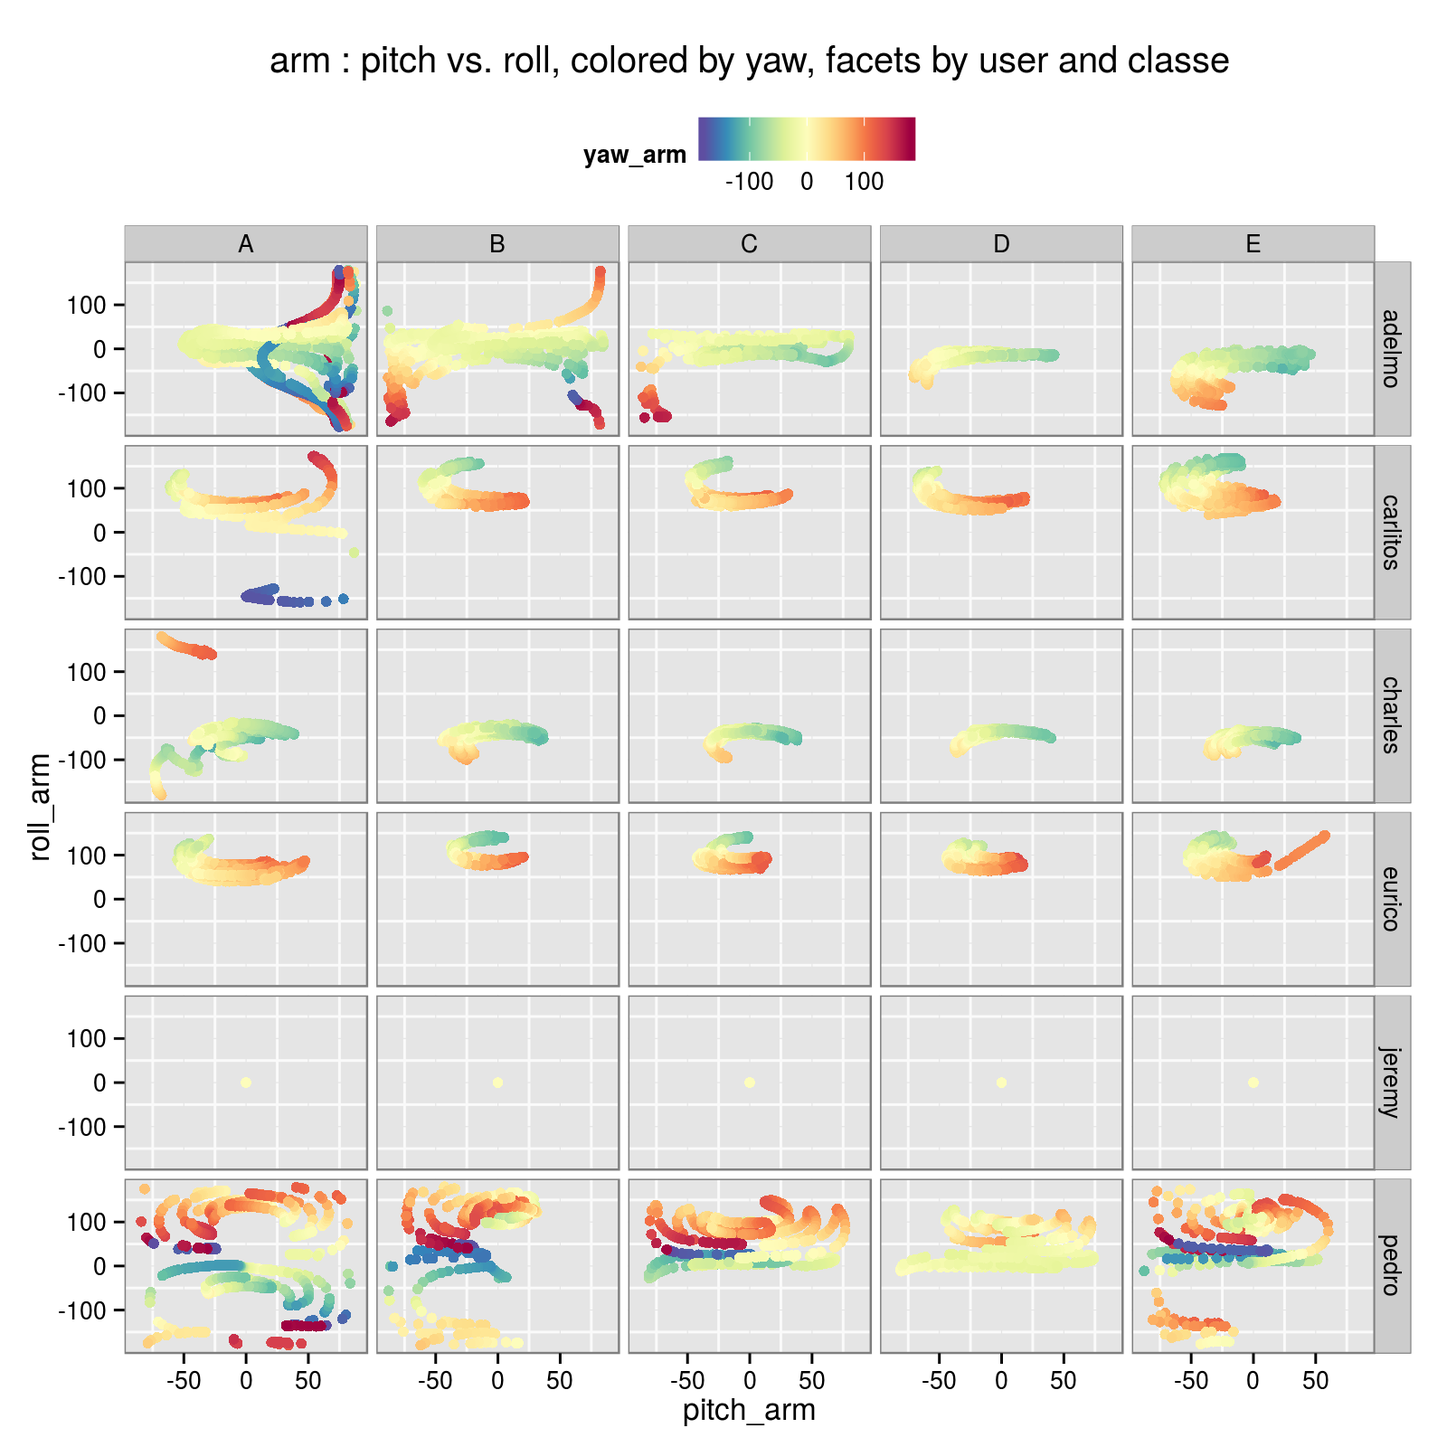
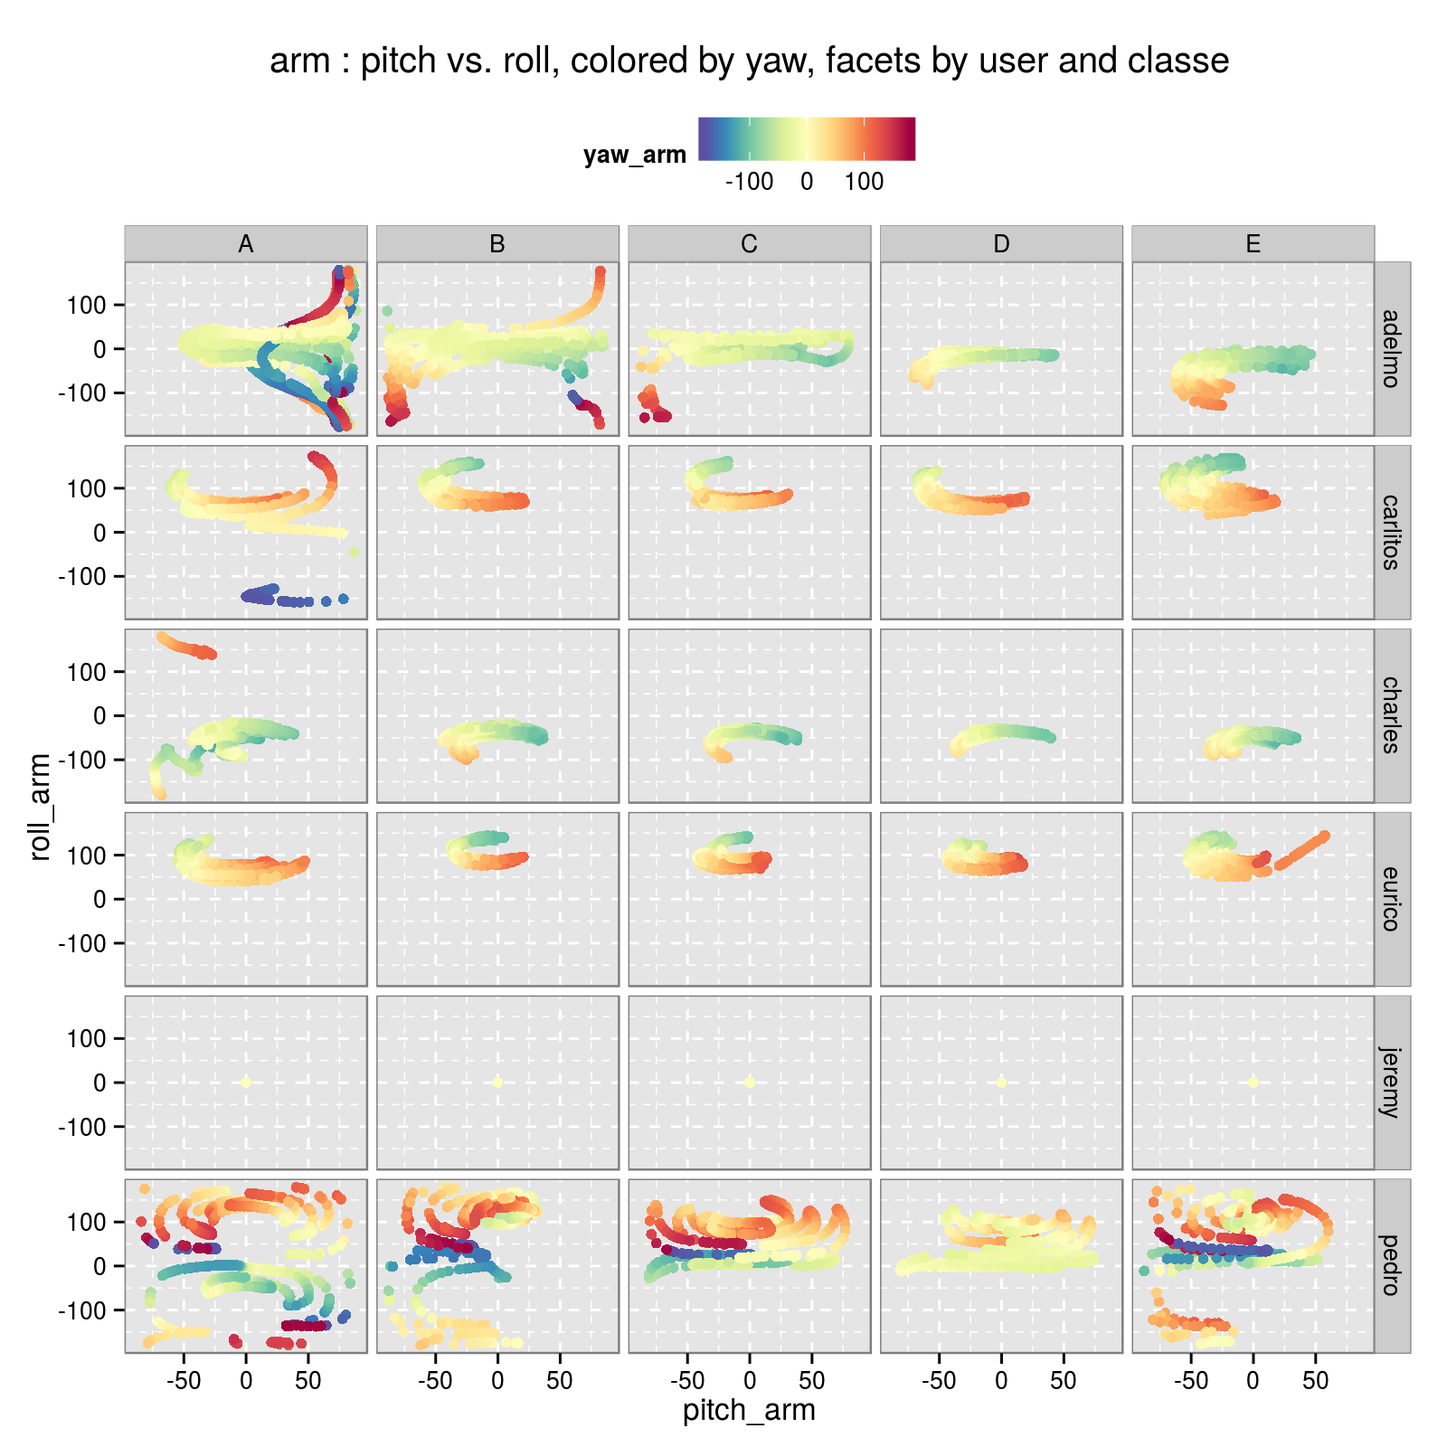
edited down Human_Activity_2

diff --git a/Human_Activity_2/report.html b/Human_Activity_2/report.html
@@ -11,7 +11,7 @@
 <meta name="author" content="Giovanni Fossati" />
 
 
-<title>Assessment of The Quality of Weight-lifting Exercises</title>
+<title>ML-based Assessement of the Quality of Weight-lifting Exercises</title>
 
 <script src="common/libs/jquery-1.11.0/jquery.min.js"></script>
 <meta name="viewport" content="width=device-width, initial-scale=1" />
@@ -76,7 +76,7 @@ img {
 
 
 <div id="header">
-<h1 class="title">Assessment of The Quality of Weight-lifting Exercises</h1>
+<h1 class="title">ML-based Assessement of the Quality of Weight-lifting Exercises</h1>
 <h4 class="author"><em>Giovanni Fossati</em></h4>
 </div>
 
@@ -116,7 +116,7 @@ img {
 <li><em>random forest</em>.</li>
 </ul>
 <p>The first two methods failed to yield high quality results. This may have been caused by less than ideal choice of parameters, although in most cases we run them with the default values from <code>caret</code>, which are expected to be reasonable for decent results.</p>
-<p><strong>Random forest</strong> models produced high quality results, with accuracies exceeding 99%, both in the built-in <em>Out Of the Bag</em> resampling, and on a subset of the data that we set aside as <em>testing</em> dataset.</p>
+<p><strong>Random forest</strong> models produced high quality results, with <strong>out-of-sample accuracies exceeding 99%</strong>, both in the built-in <em>Out Of the Bag</em> resampling, and on a subset of the data that we set aside as <em>testing</em> dataset.</p>
 <p>Beside its clearly better performance, the choice of a random forest as an ensemble method is supported by its ability to handle multi-class problems.</p>
 <p>We ran <em>random forest</em> models with <strong>three different <em>internal</em> cross-validation</strong> setups (implemented through the <code>trainControl()</code> function of <code>caret</code>):</p>
 <ul>
@@ -262,91 +262,21 @@ alt.TEST.select &lt;-<span class="st"> </span>alt.TEST.good[, alt.tt]</code></pr
 </div>
 <div id="exploratory-analysis" class="section level1">
 <h1>EXPLORATORY ANALYSIS</h1>
-<div id="features-plotted-vs.sequence-index-and-color-coded-by-user_name-and-classe" class="section level3">
-<h3>Features plotted vs. sequence index, and color coded by <code>user_name</code> and <code>classe</code></h3>
-<p>These kind of plots show that some of the features seem to correlated very strongly with the <em>user</em>, even more than with their <code>classe</code>.<br />This suggest that the training to predict the quality parameter of the weight lifting exercise (<code>classe</code>) that we can achieve with this dataset may not be easily generalized.</p>
-<div id="roll_arm-vs.user" class="section level4">
-<h4>roll_arm vs. user</h4>
-<button class="toggle_plot_code">
-show plot code
-</button>
-<pre class="sourceCode r"><code class="sourceCode r">df &lt;-<span class="st"> </span>alt.full
-<span class="co">#   8 = roll_belt</span>
-<span class="co">#   9 = pitch_belt</span>
-<span class="co">#  10 = yaw_belt</span>
-<span class="co">#  46 = roll_arm</span>
-<span class="co"># 122 = roll_forearm</span>
-ii &lt;-<span class="st"> </span><span class="dv">46</span>
-
-title_string &lt;-<span class="st"> </span><span class="kw">paste</span>(<span class="kw">colnames</span>(df)[ii], <span class="st">&quot;by user and classe&quot;</span>, <span class="dt">sep=</span><span class="st">&quot; &quot;</span>)
-tmp.df &lt;-<span class="st"> </span>df[, <span class="kw">c</span>(<span class="st">&quot;user_name&quot;</span>, <span class="st">&quot;classe&quot;</span>, <span class="kw">colnames</span>(df)[ii])]
-tmp.df$index &lt;-<span class="st"> </span><span class="dv">1</span>:<span class="kw">nrow</span>(tmp.df)
-
-p.base &lt;-<span class="st"> </span><span class="kw">ggplot</span>(tmp.df, <span class="kw">aes</span>(<span class="dt">x =</span> index, <span class="dt">y =</span> roll_arm)) +<span class="st"> </span><span class="kw">theme_bw</span>() +<span class="st"> </span>
-<span class="st">            </span><span class="kw">theme</span>(<span class="dt">legend.position =</span> <span class="st">&quot;top&quot;</span>, 
-                   <span class="dt">panel.background =</span> <span class="kw">element_rect</span>(<span class="dt">fill =</span> <span class="st">&quot;grey90&quot;</span>),
-                   <span class="dt">panel.grid.major =</span> <span class="kw">element_line</span>(<span class="dt">size =</span> <span class="fl">0.50</span>, <span class="dt">linetype =</span> <span class="st">&#39;dashed&#39;</span>, <span class="dt">colour =</span> <span class="st">&quot;white&quot;</span>), 
-                   <span class="dt">panel.grid.minor =</span> <span class="kw">element_line</span>(<span class="dt">size =</span> <span class="fl">0.25</span>, <span class="dt">linetype =</span> <span class="st">&#39;dashed&#39;</span>, <span class="dt">colour =</span> <span class="st">&quot;white&quot;</span>)) +<span class="st"> </span>
-<span class="st">            </span><span class="kw">ylab</span>(<span class="kw">colnames</span>(df)[ii]) 
-
-p<span class="fl">.1</span> &lt;-<span class="st"> </span>p.base +<span class="st"> </span>
-<span class="st">            </span><span class="kw">ggtitle</span>(title_string) +
-<span class="st">            </span><span class="kw">scale_color_brewer</span>(<span class="dt">palette =</span> <span class="st">&quot;Set3&quot;</span>, <span class="dt">name =</span> <span class="st">&quot;User&quot;</span>) +
-<span class="st">            </span><span class="kw">geom_point</span>(<span class="kw">aes</span>(<span class="dt">col =</span> user_name)) 
-
-p<span class="fl">.2</span> &lt;-<span class="st"> </span>p.base +
-<span class="st">            </span><span class="kw">scale_color_brewer</span>(<span class="dt">palette =</span> <span class="st">&quot;Set1&quot;</span>, <span class="dt">name =</span> <span class="st">&quot;Classe&quot;</span>) +
-<span class="st">            </span><span class="kw">geom_point</span>(<span class="kw">aes</span>(<span class="dt">col =</span> classe)) 
-
-<span class="kw">grid.arrange</span>(p<span class="fl">.1</span>, p<span class="fl">.2</span>, <span class="dt">nrow=</span><span class="dv">2</span>)</code></pre>
-<p><img src="figures/plots-examine2b-1.png" title="" alt="" width="800" style="display: block; margin: auto;" /></p>
-<button class="toggle_plot_code">
-show plot code
-</button>
-<pre class="sourceCode r"><code class="sourceCode r">df &lt;-<span class="st"> </span>alt.full
-<span class="co">#   8 = roll_belt</span>
-<span class="co">#   9 = pitch_belt</span>
-<span class="co">#  10 = yaw_belt</span>
-<span class="co">#  46 = roll_arm</span>
-<span class="co"># 122 = roll_forearm</span>
-ii &lt;-<span class="st"> </span><span class="dv">9</span>
-
-title_string &lt;-<span class="st"> </span><span class="kw">paste</span>(<span class="kw">colnames</span>(df)[ii], <span class="st">&quot;by user and classe&quot;</span>, <span class="dt">sep=</span><span class="st">&quot; &quot;</span>)
-tmp.df &lt;-<span class="st"> </span>df[, <span class="kw">c</span>(<span class="st">&quot;user_name&quot;</span>, <span class="st">&quot;classe&quot;</span>, <span class="kw">colnames</span>(df)[ii])]
-tmp.df$index &lt;-<span class="st"> </span><span class="dv">1</span>:<span class="kw">nrow</span>(tmp.df)
-
-p.base &lt;-<span class="st"> </span><span class="kw">ggplot</span>(tmp.df, <span class="kw">aes</span>(<span class="dt">x =</span> index, <span class="dt">y =</span> pitch_belt)) +<span class="st"> </span><span class="kw">theme_bw</span>() +<span class="st"> </span>
-<span class="st">            </span><span class="kw">theme</span>(<span class="dt">legend.position =</span> <span class="st">&quot;top&quot;</span>, 
-                   <span class="dt">panel.background =</span> <span class="kw">element_rect</span>(<span class="dt">fill =</span> <span class="st">&quot;grey90&quot;</span>),
-                   <span class="dt">panel.grid.major =</span> <span class="kw">element_line</span>(<span class="dt">size =</span> <span class="fl">0.50</span>, <span class="dt">linetype =</span> <span class="st">&#39;dashed&#39;</span>, <span class="dt">colour =</span> <span class="st">&quot;white&quot;</span>), 
-                   <span class="dt">panel.grid.minor =</span> <span class="kw">element_line</span>(<span class="dt">size =</span> <span class="fl">0.25</span>, <span class="dt">linetype =</span> <span class="st">&#39;dashed&#39;</span>, <span class="dt">colour =</span> <span class="st">&quot;white&quot;</span>)) +<span class="st"> </span>
-<span class="st">            </span><span class="kw">ylab</span>(<span class="kw">colnames</span>(df)[ii]) 
-
-p<span class="fl">.1</span> &lt;-<span class="st"> </span>p.base +<span class="st"> </span>
-<span class="st">            </span><span class="kw">ggtitle</span>(title_string) +
-<span class="st">            </span><span class="kw">scale_color_brewer</span>(<span class="dt">palette =</span> <span class="st">&quot;Set2&quot;</span>, <span class="dt">name =</span> <span class="st">&quot;User&quot;</span>) +
-<span class="st">            </span><span class="kw">geom_point</span>(<span class="kw">aes</span>(<span class="dt">col =</span> user_name)) 
-
-p<span class="fl">.2</span> &lt;-<span class="st"> </span>p.base +
-<span class="st">            </span><span class="kw">scale_color_brewer</span>(<span class="dt">palette =</span> <span class="st">&quot;Set1&quot;</span>, <span class="dt">name =</span> <span class="st">&quot;Classe&quot;</span>) +
-<span class="st">            </span><span class="kw">geom_point</span>(<span class="kw">aes</span>(<span class="dt">col =</span> classe)) 
-
-<span class="kw">grid.arrange</span>(p<span class="fl">.1</span>, p<span class="fl">.2</span>, <span class="dt">nrow=</span><span class="dv">2</span>)</code></pre>
-<p><img src="figures/plots-examine2c-1.png" title="" alt="" width="800" style="display: block; margin: auto;" /></p>
-</div>
-</div>
 <div id="feature-vs.feature-plots-faceted-by-user-and-classe" class="section level3">
 <h3>Feature vs. Feature Plots faceted by <em>user</em> and <em>classe</em></h3>
-<p>This second set of example plots shows that there are indeed some reasonably recognizable patterns allowing to distinguish between different <code>classe</code> categories.<br />However, it is noticeable how the patterns are really different from user to user, which would imply that models might have to be highly personalized.</p>
-<p>The expectation is that the ML algorithm will be able to identify them and build on them a classification scheme.</p>
+<p>These example plots shows that there are indeed some reasonably recognizable patterns allowing to distinguish between different <code>classe</code> categories.<br />The expectation is that the ML algorithm will be able to identify them and build on them a classification scheme.</p>
+<p>However, it is noticeable how the patterns are really different from user to user, which would imply that models might have to be highly personalized, and in turn that the training to predict the quality parameter (<code>classe</code>) that we can achieve with this dataset may not be easily generalized.</p>
 <button class="toggle_plot_code">
 show plot code
 </button>
-<pre class="sourceCode r"><code class="sourceCode r">myPalette &lt;-<span class="st"> </span><span class="kw">colorRampPalette</span>(<span class="kw">rev</span>(<span class="kw">brewer.pal</span>(<span class="dv">11</span>, <span class="st">&quot;Spectral&quot;</span>)))
+<pre class="sourceCode r"><code class="sourceCode r">df &lt;-<span class="st"> </span>alt.full
+myPalette &lt;-<span class="st"> </span><span class="kw">colorRampPalette</span>(<span class="kw">rev</span>(<span class="kw">brewer.pal</span>(<span class="dv">11</span>, <span class="st">&quot;Spectral&quot;</span>)))
 
 p &lt;-<span class="st"> </span><span class="kw">ggplot</span>(df, <span class="kw">aes</span>(pitch_arm, roll_arm)) +<span class="st"> </span><span class="kw">theme_bw</span>() +<span class="st"> </span>
 <span class="st">            </span><span class="kw">theme</span>(<span class="dt">legend.position =</span> <span class="st">&quot;top&quot;</span>, 
-                  <span class="dt">panel.background =</span> <span class="kw">element_rect</span>(<span class="dt">fill =</span> <span class="st">&quot;grey90&quot;</span>)) +
+                  <span class="dt">panel.background =</span> <span class="kw">element_rect</span>(<span class="dt">fill =</span> <span class="st">&quot;grey90&quot;</span>), 
+                  <span class="dt">panel.grid.major =</span> <span class="kw">element_line</span>(<span class="dt">size =</span> <span class="fl">0.50</span>, <span class="dt">linetype =</span> <span class="st">&#39;dashed&#39;</span>, <span class="dt">colour =</span> <span class="st">&quot;white&quot;</span>), 
+                  <span class="dt">panel.grid.minor =</span> <span class="kw">element_line</span>(<span class="dt">size =</span> <span class="fl">0.25</span>, <span class="dt">linetype =</span> <span class="st">&#39;dashed&#39;</span>, <span class="dt">colour =</span> <span class="st">&quot;white&quot;</span>)) +<span class="st"> </span>
 <span class="st">            </span><span class="co"># scale_color_gradient(low = &quot;gold&quot;, high = &quot;blue&quot;) +</span>
 <span class="st">            </span><span class="kw">scale_colour_gradientn</span>(<span class="dt">colours =</span> <span class="kw">myPalette</span>(<span class="dv">100</span>)) +<span class="st"> </span>
 <span class="st">            </span><span class="kw">geom_point</span>(<span class="kw">aes</span>(<span class="dt">col =</span> yaw_arm)) +<span class="st"> </span>
@@ -472,32 +402,7 @@ mod.alt.rf1c &lt;-<span class="st"> </span><span class="kw">train</span>(<span c
 </div>
 <div id="fit-summary" class="section level3">
 <h3>Fit Summary</h3>
-<pre class="sourceCode r"><code class="sourceCode r">mod.alt.rf1c
-<span class="co"># Random Forest </span>
-<span class="co"># </span>
-<span class="co"># 14414 samples</span>
-<span class="co">#    32 predictor</span>
-<span class="co">#     5 classes: &#39;A&#39;, &#39;B&#39;, &#39;C&#39;, &#39;D&#39;, &#39;E&#39; </span>
-<span class="co"># </span>
-<span class="co"># No pre-processing</span>
-<span class="co"># Resampling: Cross-Validated (4 fold) </span>
-<span class="co"># </span>
-<span class="co"># Summary of sample sizes: 10811, 10810, 10811, 10810 </span>
-<span class="co"># </span>
-<span class="co"># Resampling results across tuning parameters:</span>
-<span class="co"># </span>
-<span class="co">#   mtry  Accuracy   Kappa      Accuracy SD  Kappa SD   </span>
-<span class="co">#    2    0.9898018  0.9870959  0.003951942  0.005002063</span>
-<span class="co">#    6    0.9911893  0.9888523  0.002982777  0.003774821</span>
-<span class="co">#   10    0.9901487  0.9875353  0.003060048  0.003872692</span>
-<span class="co">#   18    0.9879979  0.9848141  0.002999668  0.003797201</span>
-<span class="co">#   26    0.9830026  0.9784937  0.003199211  0.004049294</span>
-<span class="co">#   34    0.9777993  0.9719118  0.003413927  0.004319903</span>
-<span class="co"># </span>
-<span class="co"># Accuracy was used to select the optimal model using  the largest value.</span>
-<span class="co"># The final value used for the model was mtry = 6.</span>
-
-mod.alt.rf1c$finalModel
+<pre class="sourceCode r"><code class="sourceCode r">mod.alt.rf1c$finalModel
 <span class="co"># </span>
 <span class="co"># Call:</span>
 <span class="co">#  randomForest(x = x, y = y, mtry = param$mtry, importance = TRUE) </span>
@@ -512,9 +417,11 @@ mod.alt.rf1c$finalModel
 <span class="co"># B   17 2762   10    0    0 0.0096808892</span>
 <span class="co"># C    0   19 2484   10    1 0.0119331742</span>
 <span class="co"># D    1    0   21 2337    2 0.0101651842</span>
-<span class="co"># E    0    0    1    2 2643 0.0011337868</span>
-
-mod.alt.rf1c$results
+<span class="co"># E    0    0    1    2 2643 0.0011337868</span></code></pre>
+<button class="toggle_code">
+show more
+</button>
+<pre class="sourceCode r"><code class="sourceCode r">mod.alt.rf1c$results
 <span class="co">#   mtry  Accuracy     Kappa  AccuracySD     KappaSD</span>
 <span class="co"># 1    2 0.9898018 0.9870959 0.003951942 0.005002063</span>
 <span class="co"># 2    6 0.9911893 0.9888523 0.002982777 0.003774821</span>
@@ -625,32 +532,7 @@ mod.rf1b &lt;-<span class="st"> </span><span class="kw">train</span>(<span class
 </div>
 <div id="fit-summary-1" class="section level3">
 <h3>Fit Summary</h3>
-<pre class="sourceCode r"><code class="sourceCode r">mod.rf1b
-<span class="co"># Random Forest </span>
-<span class="co"># </span>
-<span class="co"># 14718 samples</span>
-<span class="co">#    34 predictor</span>
-<span class="co">#     5 classes: &#39;A&#39;, &#39;B&#39;, &#39;C&#39;, &#39;D&#39;, &#39;E&#39; </span>
-<span class="co"># </span>
-<span class="co"># No pre-processing</span>
-<span class="co"># Resampling: Bootstrapped (25 reps) </span>
-<span class="co"># </span>
-<span class="co"># Summary of sample sizes: 14718, 14718, 14718, 14718, 14718, 14718, ... </span>
-<span class="co"># </span>
-<span class="co"># Resampling results across tuning parameters:</span>
-<span class="co"># </span>
-<span class="co">#   mtry  Accuracy   Kappa      Accuracy SD  Kappa SD   </span>
-<span class="co">#    2    0.9880161  0.9848382  0.002011458  0.002541064</span>
-<span class="co">#    6    0.9892243  0.9863680  0.001674175  0.002113586</span>
-<span class="co">#   10    0.9887082  0.9857150  0.001479500  0.001868168</span>
-<span class="co">#   18    0.9866414  0.9831000  0.001855994  0.002343789</span>
-<span class="co">#   26    0.9835928  0.9792425  0.002145057  0.002708918</span>
-<span class="co">#   34    0.9768211  0.9706757  0.002932730  0.003698371</span>
-<span class="co"># </span>
-<span class="co"># Accuracy was used to select the optimal model using  the largest value.</span>
-<span class="co"># The final value used for the model was mtry = 6.</span>
-
-mod.rf1b$finalModel
+<pre class="sourceCode r"><code class="sourceCode r">mod.rf1b$finalModel
 <span class="co"># </span>
 <span class="co"># Call:</span>
 <span class="co">#  randomForest(x = x, y = y, mtry = param$mtry) </span>
@@ -665,9 +547,11 @@ mod.rf1b$finalModel
 <span class="co"># B   13 2826    8    0    1 0.0077247191</span>
 <span class="co"># C    0   19 2530   17    1 0.0144137125</span>
 <span class="co"># D    0    0   21 2387    4 0.0103648425</span>
-<span class="co"># E    0    0    2    5 2699 0.0025868441</span>
-
-mod.rf1b$results
+<span class="co"># E    0    0    2    5 2699 0.0025868441</span></code></pre>
+<button class="toggle_code">
+show more
+</button>
+<pre class="sourceCode r"><code class="sourceCode r">mod.rf1b$results
 <span class="co">#   mtry  Accuracy     Kappa  AccuracySD     KappaSD</span>
 <span class="co"># 1    2 0.9880161 0.9848382 0.002011458 0.002541064</span>
 <span class="co"># 2    6 0.9892243 0.9863680 0.001674175 0.002113586</span>
@@ -783,31 +667,7 @@ mod.alt.rf1e &lt;-<span class="st"> </span><span class="kw">train</span>(<span c
 </div>
 <div id="fit-summary-2" class="section level3">
 <h3>Fit Summary</h3>
-<pre class="sourceCode r"><code class="sourceCode r">mod.alt.rf1e
-<span class="co"># Random Forest </span>
-<span class="co"># </span>
-<span class="co"># 14414 samples</span>
-<span class="co">#    32 predictor</span>
-<span class="co">#     5 classes: &#39;A&#39;, &#39;B&#39;, &#39;C&#39;, &#39;D&#39;, &#39;E&#39; </span>
-<span class="co"># </span>
-<span class="co"># No pre-processing</span>
-<span class="co"># Resampling: Repeated Train/Test Splits Estimated (25 reps, 0.75%) </span>
-<span class="co"># </span>
-<span class="co"># Summary of sample sizes: 10812, 10812, 10812, 10812, 10812, 10812, ... </span>
-<span class="co"># </span>
-<span class="co"># Resampling results across tuning parameters:</span>
-<span class="co"># </span>
-<span class="co">#   mtry  Accuracy   Kappa      Accuracy SD  Kappa SD   </span>
-<span class="co">#    2    0.9896724  0.9869327  0.001744837  0.002208660</span>
-<span class="co">#    4    0.9910383  0.9886615  0.001203534  0.001523144</span>
-<span class="co">#    6    0.9910272  0.9886476  0.001361771  0.001723509</span>
-<span class="co">#    8    0.9907052  0.9882400  0.001660179  0.002101095</span>
-<span class="co">#   10    0.9903054  0.9877342  0.001701827  0.002153699</span>
-<span class="co"># </span>
-<span class="co"># Accuracy was used to select the optimal model using  the largest value.</span>
-<span class="co"># The final value used for the model was mtry = 4.</span>
-
-mod.alt.rf1e$finalModel
+<pre class="sourceCode r"><code class="sourceCode r">mod.alt.rf1e$finalModel
 <span class="co"># </span>
 <span class="co"># Call:</span>
 <span class="co">#  randomForest(x = x, y = y, mtry = param$mtry, importance = TRUE) </span>
@@ -822,9 +682,11 @@ mod.alt.rf1e$finalModel
 <span class="co"># B   18 2764    7    0    0 0.0089637863</span>
 <span class="co"># C    0   19 2483   12    0 0.0123309467</span>
 <span class="co"># D    0    0   28 2330    3 0.0131300296</span>
-<span class="co"># E    0    0    1    3 2642 0.0015117158</span>
-
-mod.alt.rf1e$results
+<span class="co"># E    0    0    1    3 2642 0.0015117158</span></code></pre>
+<button class="toggle_code">
+show more
+</button>
+<pre class="sourceCode r"><code class="sourceCode r">mod.alt.rf1e$results
 <span class="co">#   mtry  Accuracy     Kappa  AccuracySD     KappaSD</span>
 <span class="co"># 1    2 0.9896724 0.9869327 0.001744837 0.002208660</span>
 <span class="co"># 2    4 0.9910383 0.9886615 0.001203534 0.001523144</span>
